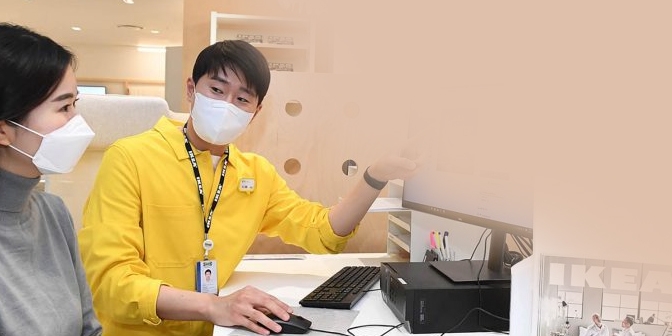
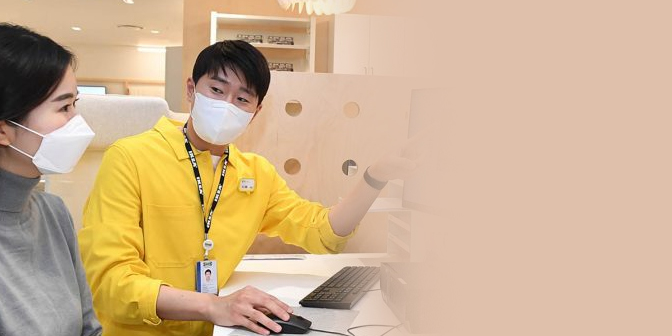
a

Changed region(s): [[0.4688, 0.506, 1.0, 1.0], [0.3125, 0.0, 0.5312, 0.2976], [0.4062, 0.2976, 0.4688, 0.3274]]

diff --git a/06company/css/style.css b/06company/css/style.css
@@ -5,8 +5,8 @@ body{font-family: 'Montserrat', sans-serif; font-family: 'Noto Sans KR', sans-se
 
 /*------------header start--------------*/
 /*header_top*/
-#header{position: relative; margin-bottom: 150px;}
-#header.main{height: 1950px;}
+#header{position: relative;}
+#header.main{height: 1977px;}
 #header_top{
 	width: 1334px; height: 98px; position: absolute; 
 	left: 50%; transform:translateX(-50%); z-index: 1;
@@ -42,7 +42,7 @@ body{font-family: 'Montserrat', sans-serif; font-family: 'Noto Sans KR', sans-se
 
 /*slider_wrap*/
 .slider_wrap{}
-.slider_wrap ul li{height: 1080px;}
+.slider_wrap ul li{height: 969px;}
 .slider_wrap li.first{
 	background: url(../img/slider01.jpg) no-repeat center;
 	background-size: cover;
@@ -55,7 +55,7 @@ body{font-family: 'Montserrat', sans-serif; font-family: 'Noto Sans KR', sans-se
 	background: url(../img/slider03.jpg) no-repeat center;
 	background-size: cover;
 }
-.slider_wrap .slider_txt{width: 420px; position: absolute;
+.slider_wrap .slider_txt{width: 800px; position: absolute;
 	left: 50%; transform: translateX(-50%); top: 25%; color: #fff;
 	text-align: center; text-shadow: 2px 2px 5px #6a6a6a;
 }
@@ -69,7 +69,7 @@ body{font-family: 'Montserrat', sans-serif; font-family: 'Noto Sans KR', sans-se
     border: 0 none;
     margin-bottom: 0;
 }
-.slider_wrap .bx-pager{bottom: 350px;}
+.slider_wrap .bx-pager{bottom: 400px;}
 
 
 
@@ -77,7 +77,7 @@ body{font-family: 'Montserrat', sans-serif; font-family: 'Noto Sans KR', sans-se
 /*------------content start--------------*/
 #header .content{width: 1344px; position: absolute;
 	left: 50%; transform: translateX(-50%); background-color: #fff;
-	top: 744px; 
+	top: 633px; 
 }
 .content>ul{margin-bottom: 150px;}
 .content>ul>li{float: left; width: 25%; height: 336px;
@@ -274,7 +274,8 @@ section .service{width: 1344px; margin: 0 auto 150px;}
 #footer .wrap{width: 1334px; margin: 0 auto; position: relative;}
 
 
-.top{width: 1334px; height: 172px; background: pink;}
+.top{width: 1334px; height: 172px; _background: pink;}
+.top .sns{position: absolute; top: 100px;}
 .top .sns li{float: left; width: 38px; height: 38px; border: 1px solid #d1d3d4;
 	border-radius: 19px; margin-right: 10px;
 }
@@ -283,7 +284,7 @@ section .service{width: 1344px; margin: 0 auto 150px;}
 .top .sns li:nth-child(3){background: url(../img/sns-yt.png) no-repeat; text-indent: -9999px; cursor: pointer;}
 .top .sns li>a{}
 
-.top .language{position: absolute; right: 0; top: 0;}
+.top .language{position: absolute; right: 0; top: 100px;}
 .top .language .country{width: 120px; height: 38px; border: 1px solid #d1d3d4;
 	border-radius: 19px; text-align: center; line-height: 38px;
 	float: left;
@@ -291,4 +292,22 @@ section .service{width: 1344px; margin: 0 auto 150px;}
 .top .language .switchLanguage{width: 100px; height: 38px; border: 1px solid #d1d3d4;
 	border-radius: 19px; text-align: center; line-height: 38px;
 	float: right; margin-left: 10px;
+}
+.top:after{content:""; display: block; width: 1334px; height: 1px; 
+	background: #bbbbbb; position: absolute; top: 172px;
+}
+
+
+.bottomWrap{width: 1334px; height: 300px; _background: skyblue;
+}
+.bottomWrap .middle{padding-top: 40px; padding-bottom: 30px;}
+.bottomWrap .middle .copyright{float: left;}
+.bottomWrap .middle .legalLinks{float: right;}
+.bottomWrap .middle .legalLinks li{float: left; margin-left: 20px;}
+
+.bottomWrap .bottom{position: relative;}
+.bottomWrap .bottom .legalInformation{float: left;}
+.bottomWrap .bottom h1{position: absolute; right: 0; bottom: 0;
+	width: 123px;height: 22px;background: url(../img/logo-bk.png) no-repeat; text-indent: -9999px;
+	cursor: pointer;
 }

diff --git a/06company/index.html b/06company/index.html
@@ -38,20 +38,17 @@
 			<ul class="slider">
 				<li class="first">
 					<div class="slider_txt">
-						<h3>행복을 만드는<br> 우리집1</h3>
-						<p>Lorem ipsum dolor sit amet, consectetur adipisicing elit. Aspernatur, aperiam.</p>
+						<h3>행복을 만드는<br>우리집</h3>
 					</div>
 				</li>
 				<li class="second">
 					<div class="slider_txt">
-						<h3>행복을 만드는<br> 우리집2</h3>
-						<p>Lorem ipsum dolor sit amet, consectetur adipisicing elit. Aspernatur, aperiam.</p>
+						<h3>함께하기 좋은<br>넓은 거실</h3>
 					</div>
 				</li>
 				<li class="third">
 					<div class="slider_txt">
-						<h3>행복을 만드는<br> 우리집3</h3>
-						<p>Lorem ipsum dolor sit amet, consectetur adipisicing elit. Aspernatur, aperiam.</p>
+						<h3>부드러운 텍스타일로<br>나만의 공간 만들기</h3>
 					</div>
 				</li>
 			</ul>
@@ -71,7 +68,22 @@
 						<p>어느 가족의 숨겨진 침실,<br>그 비밀은?</p>
 					</a>
 				</li>
-				<li><a href="#">슬라이드이용</a></li>
+				<li class="box03">
+					<ul>
+						<li>
+							<p>이달의 제품</p>
+							<p>SKURUP 스쿠루프</p>
+							<p>펜던트등, 38cm</p>
+							<p>￦ 29,900</p>
+						</li>
+					</ul>
+					<div class="prevBtn">
+						<img src="img/prevBtn.png" alt="prevBtn">
+					</div>
+					<div class="nextBtn">
+						<img src="img/nextBtn.png" alt="nextBtn">
+					</div>
+				</li>
 				<li><a href="#">슬라이드이용</a></li>
 				<li class="box04">
 					<a href="#">
@@ -189,32 +201,32 @@
 				</div>
 			</div>   <!--  top end  줄 위쪽-->
 
-			
-			<!-- <div class="middle">
-				<div class="copyright">
-					<p>© Inter IKEA Systems B.V 1999-2020</p>
+			<div class="bottomWrap">
+				<div class="middle clearfix">
+					<div class="copyright">
+						<p>© Inter IKEA Systems B.V 1999-2020</p>
+					</div>
+					<div class="legalLinks">
+						<ul class="clearfix">
+							<li><a href="#">개인정보처리방침</a></li>
+							<li><a href="#">웹사이트 이용약관</a></li>
+							<li><a href="#">Responsible disclosure</a></li>
+						</ul>
+					</div>
 				</div>
-				<div class="legalLinks">
-					<ul>
-						<li><a href="#">개인정보처리방침</a></li>
-						<li><a href="#">웹사이트 이용약관</a></li>
-						<li><a href="#">Responsible disclosure</a></li>
-					</ul>
+				
+				<div class="bottom clearfix">
+					<div class="legalInformation">
+						<p>IKEA 코리아 <br>
+						주소 : (우) 14352  경기도 광명시 일직로 17 IKEA광명점<br>
+						사업자 등록번호 : 106-86-82871 <a href="#"> 사업자정보확인 </a><br>
+						대표자 : 프레드릭 요한손 <br>
+						통신판매업 신고 : 2018-경기광명-0209 <br>
+						TEL : 1670-4532</p>
+					</div>
+					<h1 class="logo">ikea</h1>
 				</div>
 			</div>
-
-
-			<div class="bottom">
-				<div class="legalInformation">
-					<p>IKEA 코리아 <br>
-					주소 : (우) 14352  경기도 광명시 일직로 17 IKEA광명점<br>
-					사업자 등록번호 : 106-86-82871 <a href="#"> 사업자정보확인 </a><br>
-					대표자 : 프레드릭 요한손 <br>
-					통신판매업 신고 : 2018-경기광명-0209 <br>
-					TEL : 1670-4532</p>
-				</div>
-				<h1 class="logo">ikea</h1>
-			</div> -->
 		</div>
 	</footer>
 </body>
